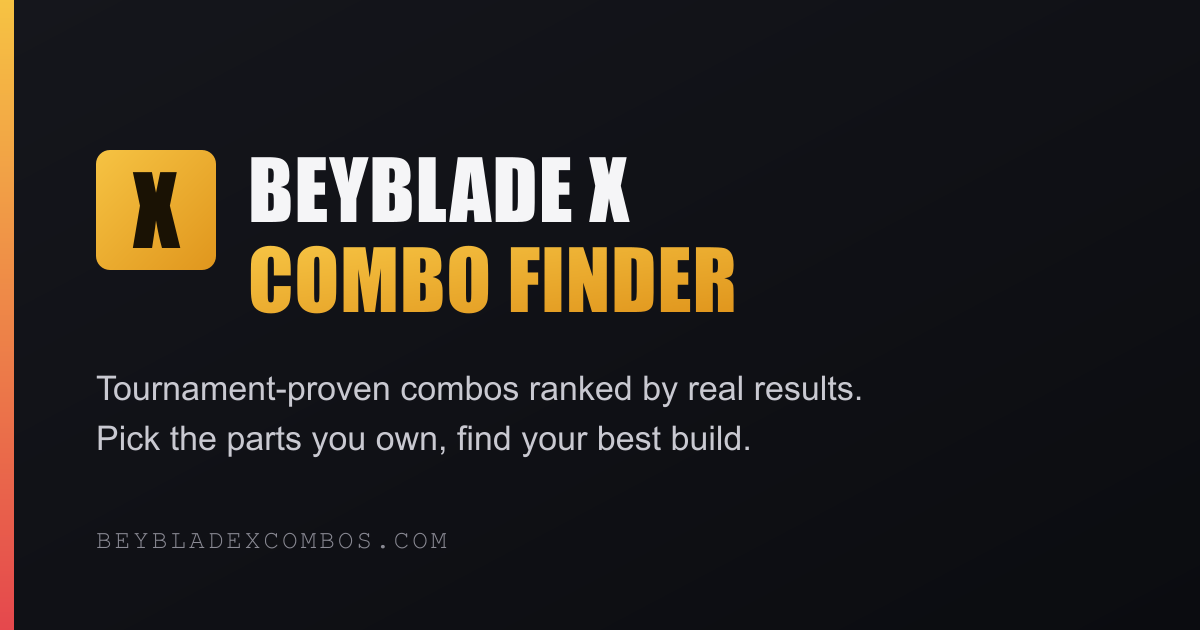
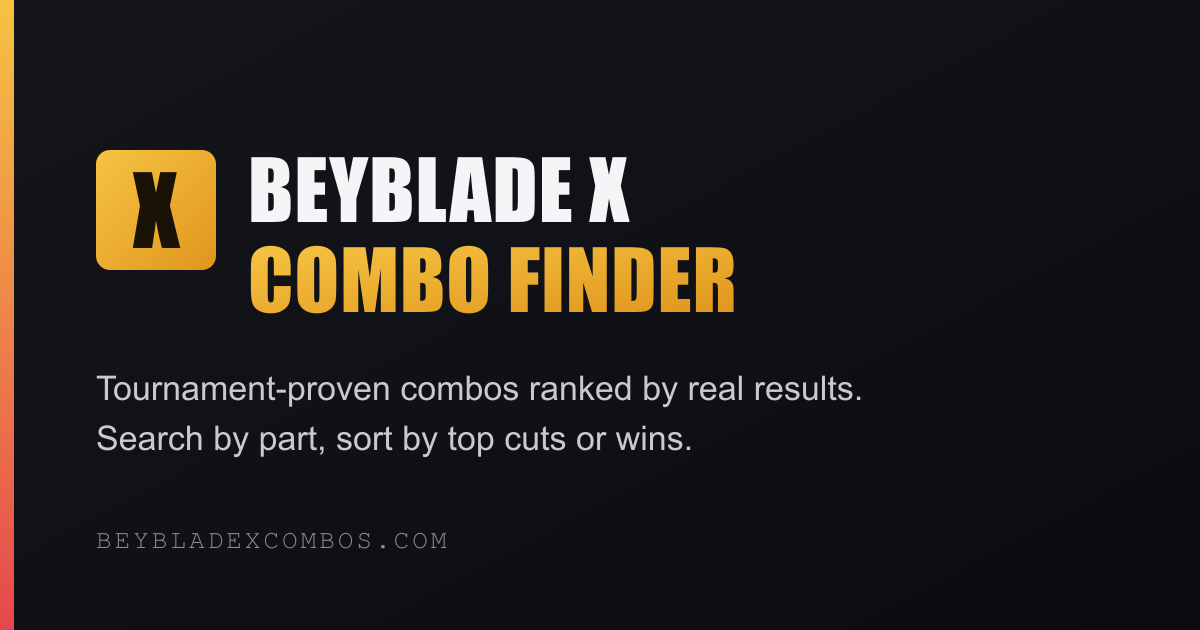
fix: via gli ultimi riferimenti alle «parti che possiedi»
Dopo la rimozione di Compare e Buildable, la meta description della home e
di About e l'immagine di condivisione dicevano ancora «the parts you own».
Ora dicono: «search by part, sort by top cuts or wins». Allineato anche
l'italiano.

Tolte le chiavi search.title e search.subtitle, che nessuna pagina usava.
Aggiornati i commenti e un nome di variabile in part-search.

Il generatore dell'immagine passa da tmp/, ignorata da git, a scripts/gen-og.mjs.

Changed region(s): [[0.0617, 0.6635, 0.6167, 0.7238]]

diff --git a/src/components/search/part-search.tsx b/src/components/search/part-search.tsx
@@ -72,7 +72,7 @@ export function PartSearch({ parts, selected, suggestions, onAdd, onRemove, t }:
     .filter((o): o is (typeof index)[number] & { matchedAlt: string | null } => o !== null)
     .slice(0, 50);
 
-  const owned: PartRef[] = CATEGORIES.flatMap((c) =>
+  const chosen: PartRef[] = CATEGORIES.flatMap((c) =>
     selected[c.category].map((id) => {
       const found = (parts[c.category] as Array<{ id: string; name: string }>).find((p) => p.id === id);
       return { category: c.category, id, name: found ? found.name : id };
@@ -133,10 +133,10 @@ export function PartSearch({ parts, selected, suggestions, onAdd, onRemove, t }:
         )}
       </div>
 
-      {/* Chip parti possedute */}
-      {owned.length > 0 && (
+      {/* Chip delle parti cercate */}
+      {chosen.length > 0 && (
         <div class="mt-3 flex flex-wrap gap-2">
-          {owned.map((c) => (
+          {chosen.map((c) => (
             <span
               key={`${c.category}:${c.id}`}
               class="inline-flex items-center gap-1.5 rounded-[9px] bg-gold px-2.5 py-1 text-xs font-bold text-gold-ink"
@@ -156,7 +156,7 @@ export function PartSearch({ parts, selected, suggestions, onAdd, onRemove, t }:
         </div>
       )}
 
-      {/* Chip suggeriti (non ancora posseduti) */}
+      {/* Chip suggeriti (non ancora cercati) */}
       {suggestions.length > 0 && (
         <>
           <div class="mt-3 mb-2 font-mono text-[10px] uppercase tracking-[0.12em] text-muted-2">

diff --git a/src/components/search/combo-search.tsx b/src/components/search/combo-search.tsx
@@ -229,7 +229,7 @@ export default function ComboSearch({ parts, initial, dataUrl, amazon, locale, t
   };
 
   // Suggerimenti: parti più frequenti nelle top combo (365 giorni, indipendente dal periodo scelto),
-  // non ancora possedute. db.combos è già ordinato per windows["365"].score.
+  // non ancora cercate. db.combos è già ordinato per windows["365"].score.
   const suggestions: PartRef[] = (() => {
     const top = db.combos.slice(0, 20);
     const counts = new Map<string, { category: PartCategory; id: string; n: number }>();
@@ -274,7 +274,7 @@ export default function ComboSearch({ parts, initial, dataUrl, amazon, locale, t
 
   return (
     <div class="lg:grid lg:grid-cols-[340px_1fr] lg:gap-7">
-      {/* ---------- Pannello "Le tue parti" (rail su desktop) ---------- */}
+      {/* ---------- Pannello "Search parts" (rail su desktop) ---------- */}
       <section class="mb-6 self-start rounded-[14px] border border-border bg-surface p-4 lg:mb-0">
         <h2 class="font-display text-[18px] uppercase text-text lg:text-[19px]">{t('search.yourParts')}</h2>
 

diff --git a/CLAUDE.md b/CLAUDE.md
@@ -22,7 +22,7 @@ Tracking di backlog/issue/changelog per area in [`projects/`](projects/INDEX.md)
   in `docs/redesign-arena.md`. Font: Anton (display) / Saira (body) / JetBrains Mono (mono).
 - **Hosting**: GitHub Pages (deploy automatico via Actions)
 - **SEO/social**: `@astrojs/sitemap` (solo pagine HTML), `src/pages/robots.txt.ts` generato a build,
-  canonical + Open Graph/Twitter card nel layout con `public/og.png` (1200×630, generata da `tmp/gen-og.mjs`).
+  canonical + Open Graph/Twitter card nel layout con `public/og.png` (1200×630, generata da `node scripts/gen-og.mjs`).
 - **Monitoraggio SEO** (dal 01/10/2026): Google Search Console, proprietà di dominio `sc-domain:beybladexcombos.com`
   (account `cinquequarti@gmail.com`), verificata da un record TXT `google-site-verification` nel DNS Tophost: non
   rimuoverlo. Bing Webmaster Tools importato da Search Console. Sitemap inviata a entrambi.
